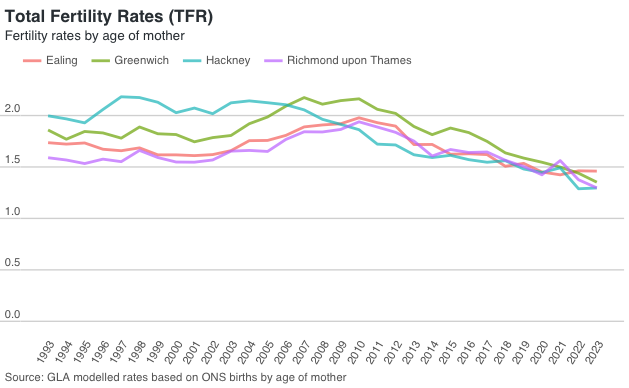
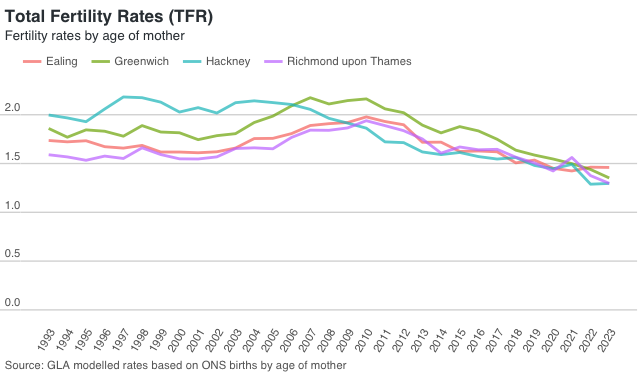
update images/readme

diff --git a/README.md b/README.md
@@ -20,8 +20,8 @@ Once all outputs have been created and are saved under `data/processed`, run `rm
 
 Several plots can be adapted to display raw and smooth age-specific fertility rates and total fertility rates for selected years and/or local authorities of interest.
 
-<img src="images/smooth_asfr_example.png" alt="Alt Text" width="500" height="300">
-<img src="images/tfr_example.png" alt="Alt Text" width="480" height="300">
+<img src="images/smooth_asfr_example.png" alt="Alt Text" width="600" height="280">
+<img src="images/tfr_example.png" alt="Alt Text" width="500" height="300">
 
 ### Requirements
 
